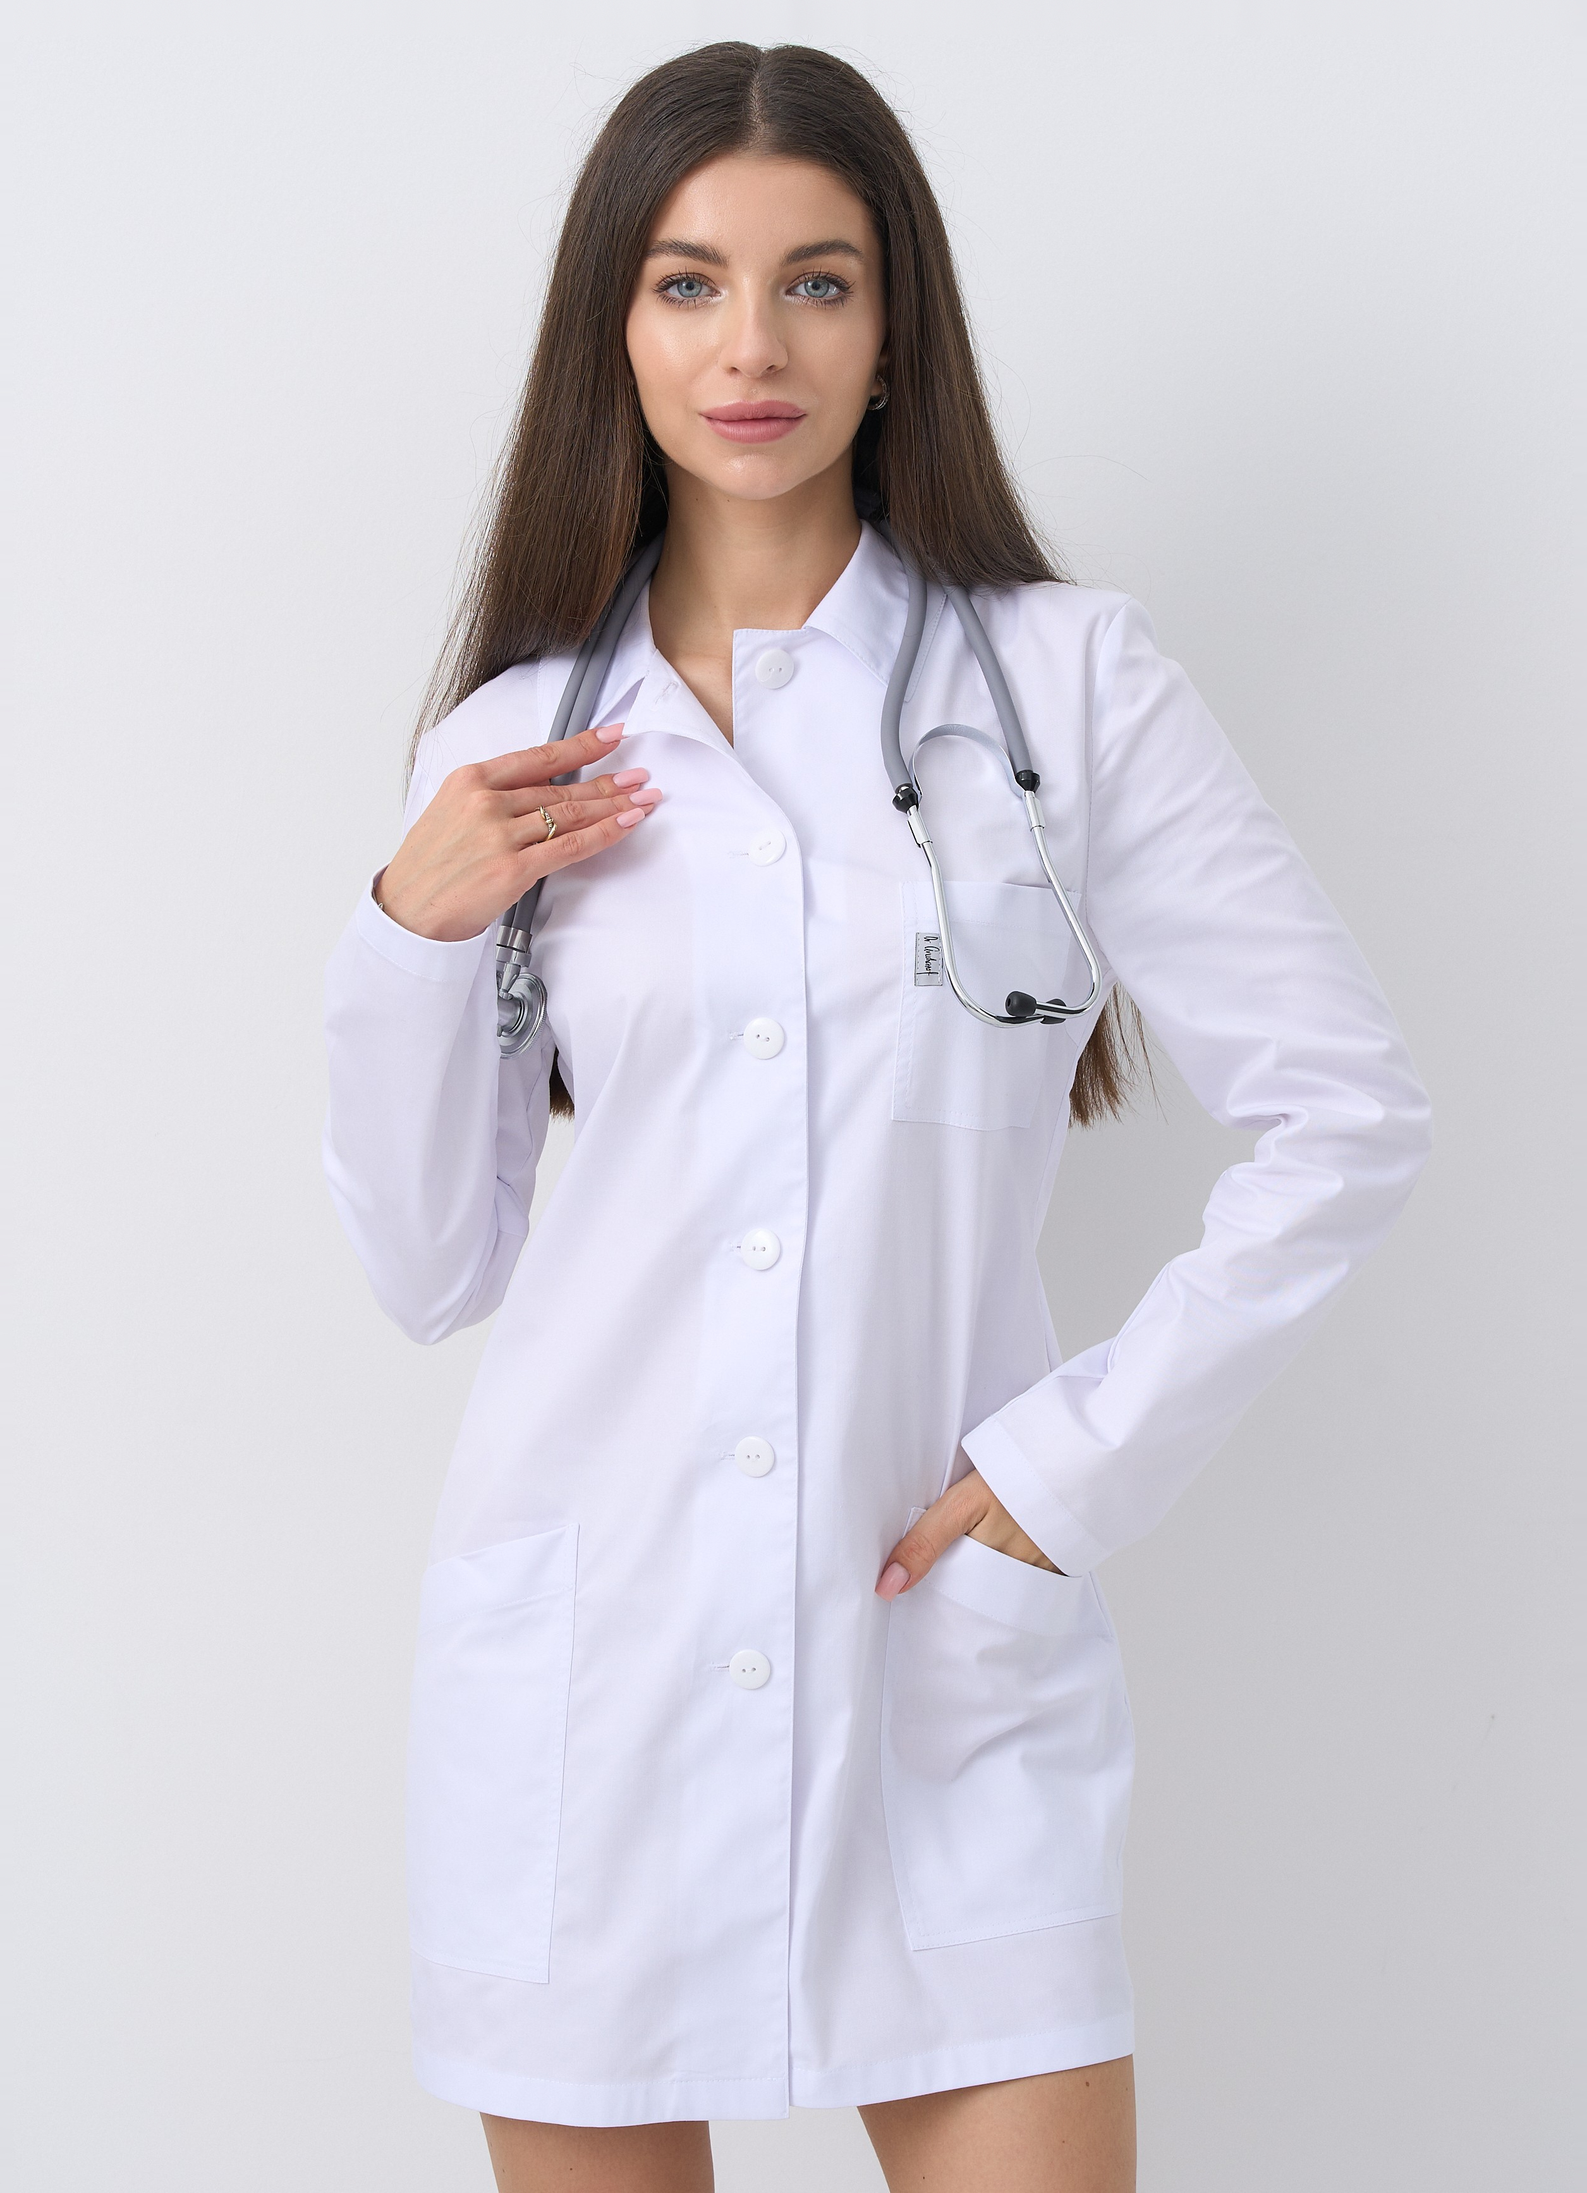
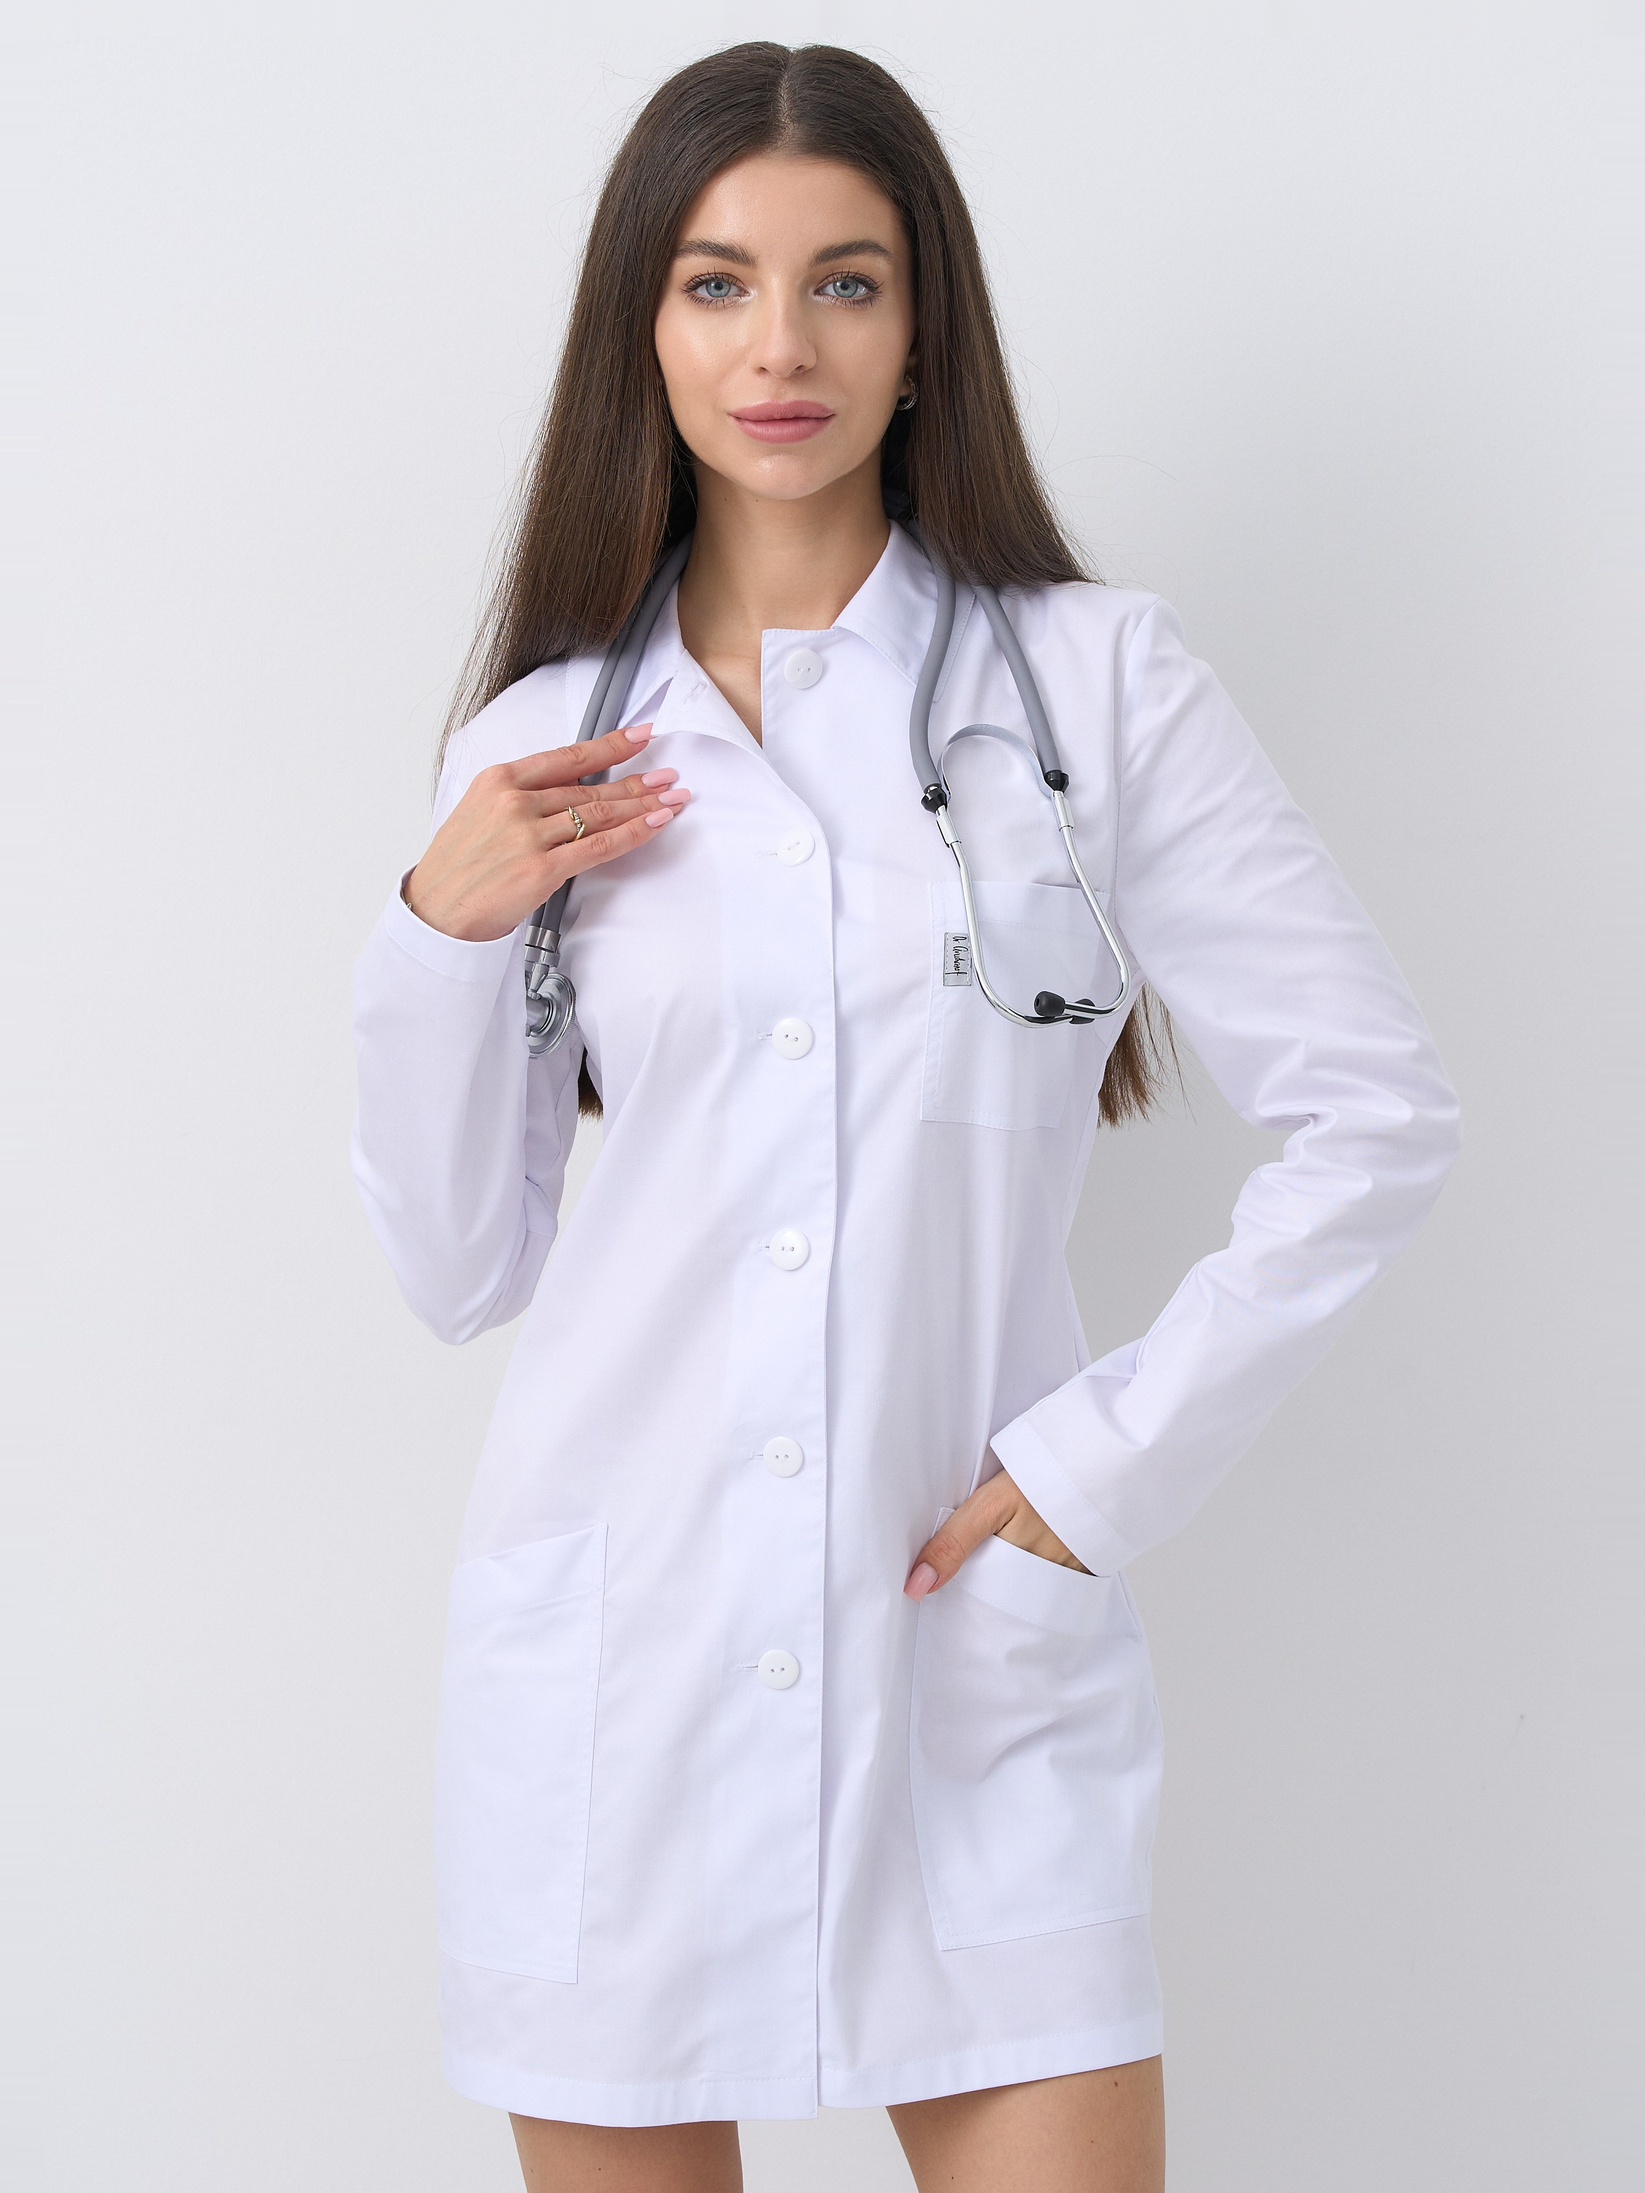
Bring the last batch to 3:4 as well
The five white-coat frames each arrived at their own crop, from 0.55 to 0.84,
against 3:4 for the twenty-two before them. Four of them now pad out sideways
to 3:4 on top of the margin - 23 needs the most, 370px per side.

top_margin.py grows a side gradient over a limited reach and then levels off.
Extrapolating the measured slope linearly across hundreds of columns walked the
background well off its own tone; with the reach capped the far edge lands
within 2.4 levels of the real edge it continues.

Photo 27, the pocket close-up, reaches 3:4 by cropping 309px of width instead:
the garment runs off the top edge across the whole frame, so it has no headroom
to extend and nothing is synthesised for it. It gets the ratio but no margin -
a background strip above cropped fabric would read as a mistake.

Claude-Session: https://claude.ai/code/session_01JHcE1fAS6ZLX1B7gE1H4Fj

diff --git a/scripts/top_margin.py b/scripts/top_margin.py
@@ -1,6 +1,7 @@
 """Add a small strip of background above the subject.
 
-Usage:  python3 scripts/top_margin.py IN OUT [--px 55] [--exact] [--no-fit]
+Usage:  python3 scripts/top_margin.py IN OUT [--px 55] [--ratio 0.75] [--exact]
+                                       [--no-fit]
 
 The strip is synthesised from the studio background that is already in the
 frame: a per-column anchor colour taken from the real top rows, a vertical
@@ -8,6 +9,9 @@ gradient measured down the columns that stay clear of the subject, and grain
 matched to the background's own noise.  The sides are widened by the same
 proportion so the aspect ratio holds, and the photo itself is left alone —
 every original pixel keeps its place, so the frame grows by --px.
+
+--ratio pads the sides out to a given width/height as well, so frames shot at
+different crops can be delivered in one format.
 
 --exact resamples back to the input size instead.  That costs sharpness across
 the whole picture, so use it only when the delivered file has to keep exactly
@@ -110,6 +114,9 @@ def extend_top(A, n, depth):
     return np.concatenate([out, A], axis=0)
 
 
+SIDE_REACH = 70         # px over which a side gradient is still trusted
+
+
 def extend_side(A, n, left):
     if n <= 0:
         return A
@@ -119,12 +126,16 @@ def extend_side(A, n, left):
     ym = y.mean()
     denom = ((y - ym) ** 2).sum()
     out = np.zeros((H, n, C))
+    d = np.arange(1, n + 1, dtype=np.float64)
+    # follow the measured gradient near the edge, then level off: extrapolating a
+    # slope linearly across hundreds of px drifts the background off its own tone
+    reach = SIDE_REACH * (1.0 - np.exp(-d / SIDE_REACH))
+    xs = (-reach[::-1] if left else reach)[None, :]
     for ch in range(C):
         vals = (A[:, :win, ch] if left else A[:, W - win:, ch]).T
         s = ((y - ym)[:, None] * (vals - vals.mean(axis=0))).sum(axis=0) / denom
         s = np.clip(gauss1d(s, 40), -SLOPE_LIMIT, SLOPE_LIMIT)
         edge = gauss1d((A[:, :3, ch] if left else A[:, W - 3:, ch]).mean(axis=1), 3)
-        xs = (np.arange(-n, 0) if left else np.arange(1, n + 1))[None, :]
         out[:, :, ch] = edge[:, None] + s[:, None] * xs
     return np.concatenate([out, A] if left else [A, out], axis=1)
 
@@ -134,12 +145,13 @@ def subject_cols(A, depth):
     return (int(blocked.min()), int(blocked.max())) if len(blocked) else (0, A.shape[1] - 1)
 
 
-def pad(A, depth, px, fit=True):
-    """Grow the frame by `px` at the top, keeping the aspect ratio."""
+def pad(A, depth, px, fit=True, ratio=None):
+    """Grow the frame by `px` at the top, then out to `ratio` (default: keep)."""
     H, W, _ = A.shape
     B = extend_top(A, px, depth)
     if fit:
-        side = int(round((H + px) * W / float(H))) - W
+        target = ratio if ratio else W / float(H)
+        side = int(round((H + px) * target)) - W
         left = side // 2                          # keep the subject centred as shot
         B = extend_side(extend_side(B, left, True), side - left, False)
     return B
@@ -156,7 +168,7 @@ def save(B, dst, size=None):
     return out
 
 
-def process(src, dst, px=DEFAULT_PX, fit=True, exact=False):
+def process(src, dst, px=DEFAULT_PX, fit=True, exact=False, ratio=None):
     im = Image.open(src).convert('RGB')
     A = np.asarray(im).astype(np.float64)
     H, W, _ = A.shape
@@ -171,7 +183,7 @@ def process(src, dst, px=DEFAULT_PX, fit=True, exact=False):
         depth = np.maximum(depth, 1)
 
     T = int(round(px * H / float(H - px))) if exact else px
-    B = pad(A, depth, T, fit)
+    B = pad(A, depth, T, fit, ratio)
     out = save(B, dst, (W, H) if exact else None)
 
     V = np.asarray(Image.open(dst).convert('RGB')).astype(np.float64)
@@ -181,7 +193,7 @@ def process(src, dst, px=DEFAULT_PX, fit=True, exact=False):
 
 if __name__ == '__main__':
     argv = sys.argv[1:]
-    px, fit, exact, args = DEFAULT_PX, True, False, []
+    px, fit, exact, ratio, args = DEFAULT_PX, True, False, None, []
     i = 0
     while i < len(argv):
         a = argv[i]
@@ -189,6 +201,11 @@ if __name__ == '__main__':
             fit = False
         elif a == '--exact':
             exact = True
+        elif a.startswith('--ratio='):
+            ratio = float(a.split('=', 1)[1])
+        elif a == '--ratio':
+            i += 1
+            ratio = float(argv[i])
         elif a.startswith('--px='):
             px = int(a.split('=', 1)[1])
         elif a == '--px':
@@ -201,4 +218,4 @@ if __name__ == '__main__':
         i += 1
     if len(args) != 2:
         raise SystemExit(__doc__)
-    process(args[0], args[1], px=px, fit=fit, exact=exact)
+    process(args[0], args[1], px=px, fit=fit, exact=exact, ratio=ratio)
